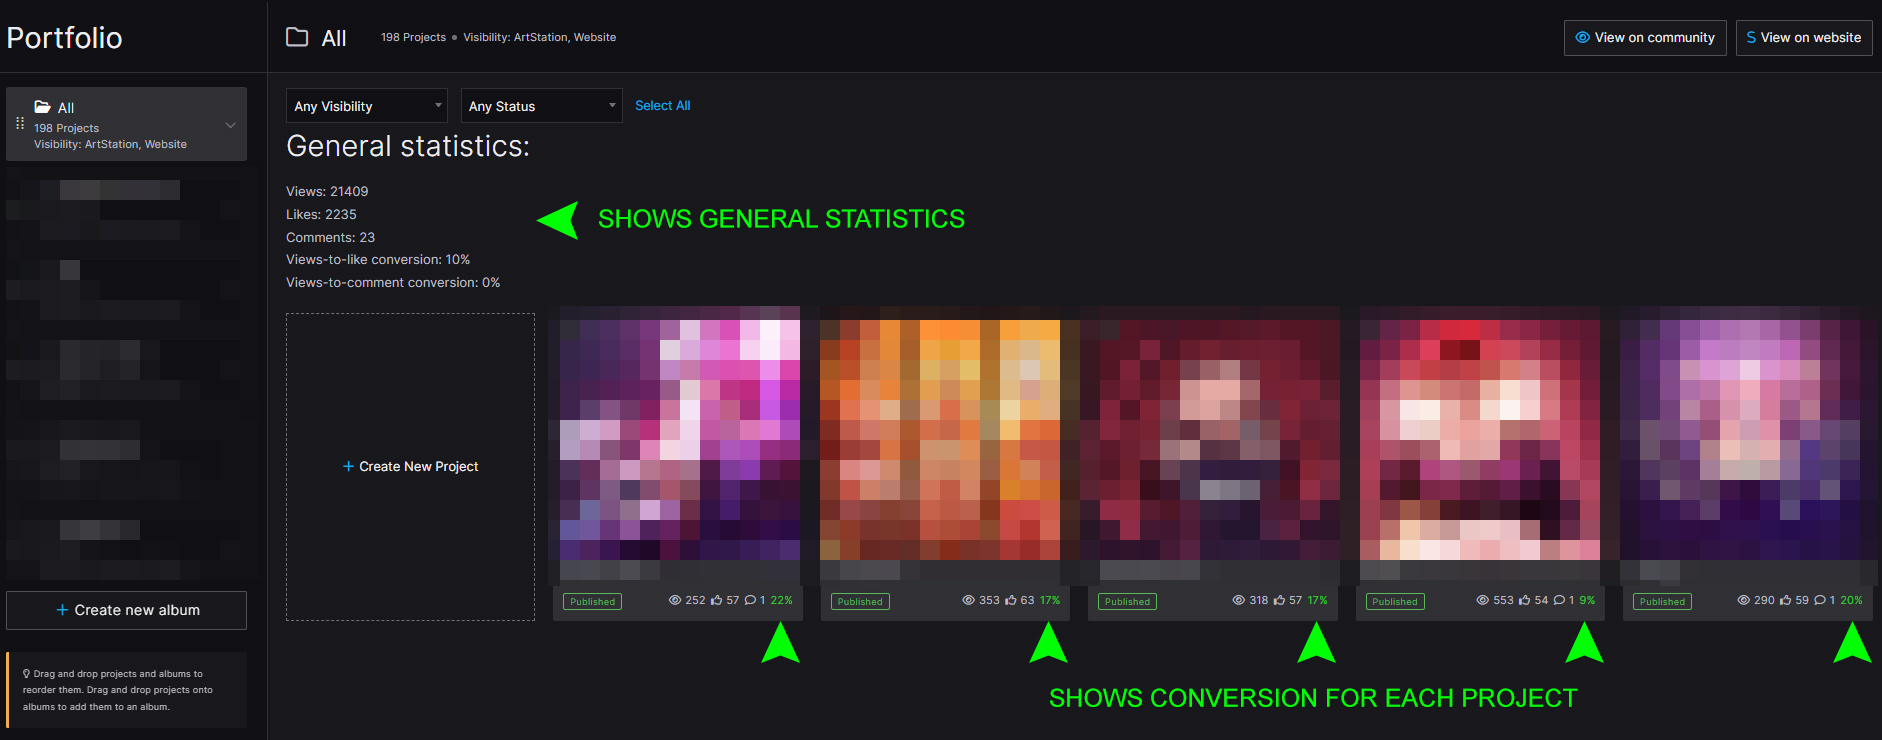
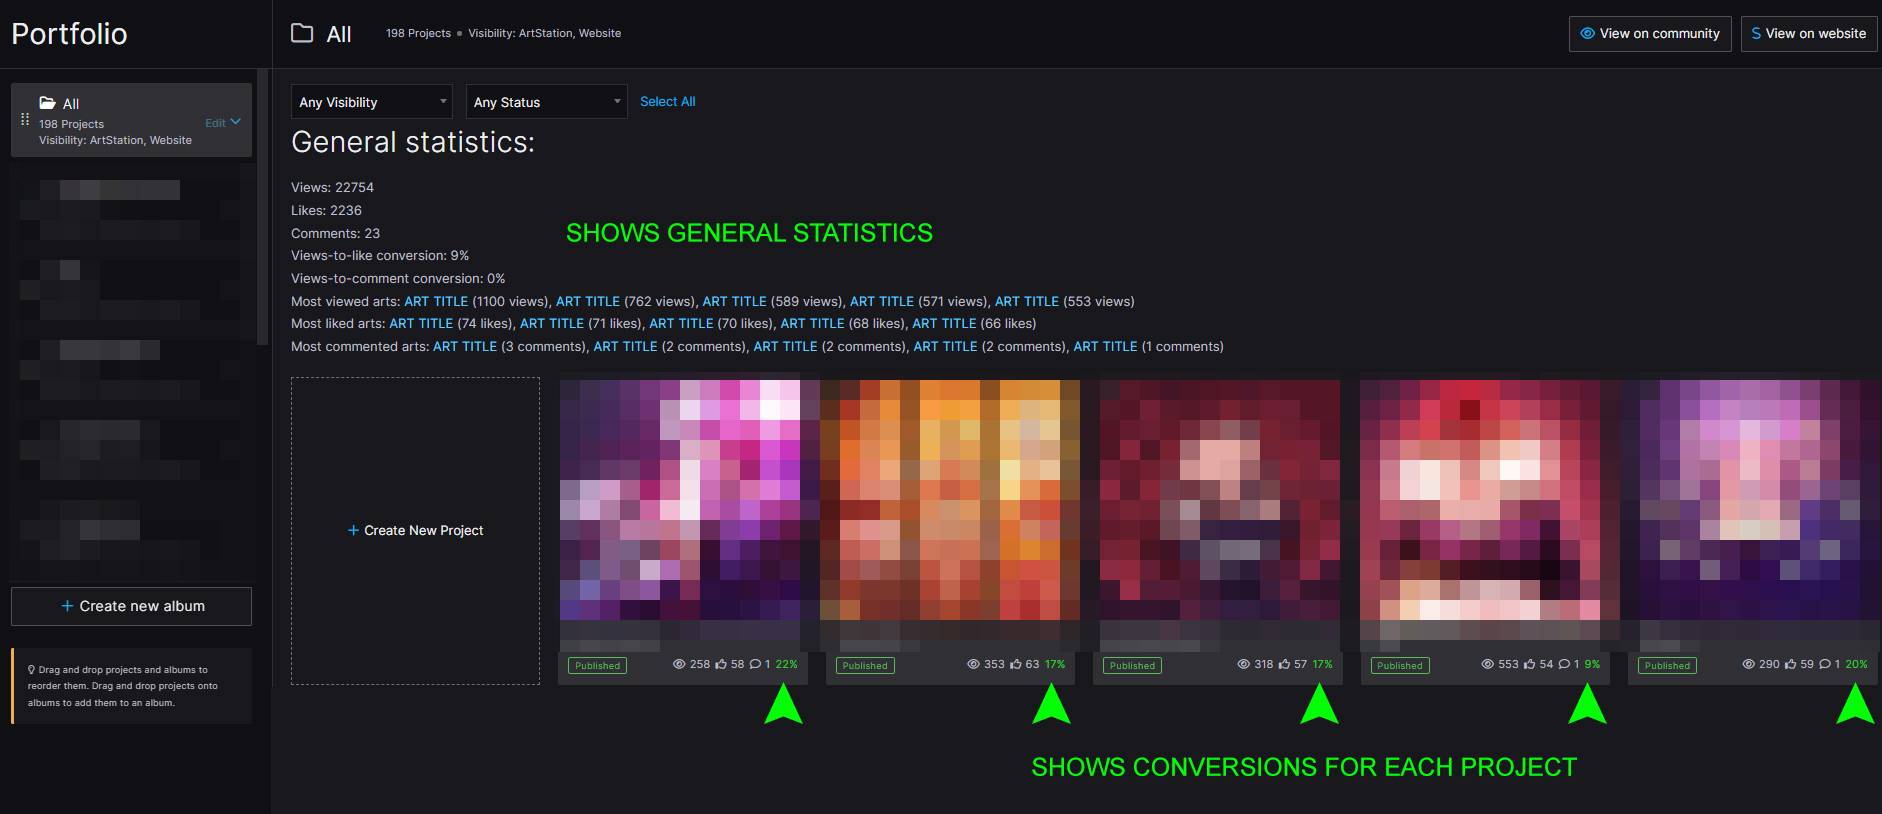
Add top rated arts section

diff --git a/userscript.js b/userscript.js
@@ -9,54 +9,102 @@
 // @grant        none
 // ==/UserScript==
 
-(function() {
-    'use strict';
-    function parseNumber(node) {
-        let text = node.split('</i>')[1]
-        const isMoreThanThousand = text.indexOf('K') > -1
-        let number = parseInt(text)
-        return isMoreThanThousand ? number * 1000 : number
-    }
+;(function () {
+  'use strict'
 
-    function renderStats(totalViews, totalLikes, totalComments) {
-        const portfolioContentNode = document.getElementsByClassName('portfolio-content')[0]
-        const projectListNode = document.getElementsByClassName('project-list')[0]
-        const statDiv = document.createElement("div")
-        const viewsToLikeConversion = Math.floor(totalLikes / totalViews * 100)
-        const viewsToCommentConversion = Math.floor(totalComments / totalViews * 100)
-        statDiv.innerHTML += `<h2>General statistics:</h2>`
-        statDiv.innerHTML += `Views: ${totalViews} <br> Likes: ${totalLikes} <br> Comments: ${totalComments} <br>`
-        statDiv.innerHTML += `Views-to-like conversion: ${viewsToLikeConversion}% <br> Views-to-comment conversion: ${viewsToCommentConversion}%`
-        portfolioContentNode.insertBefore(statDiv, projectListNode)
-    }
+  function parseNumber(node) {
+    let text = node.split('</i>')[1]
+    const isMoreThanThousand = text.indexOf('K') > -1
+    let number = parseFloat(text)
+    return isMoreThanThousand ? number * 1000 : number
+  }
 
-    function addConversions() {
-        const metas = document.getElementsByClassName('project-meta')
-        let totalViews = 0
-        let totalLikes = 0
-        let totalComments = 0
-        for (var i = 0; i < metas.length; i++) {
-            const meta = metas[i]
-            let views = parseNumber(meta.childNodes[0].innerHTML)
-            if(!meta.childNodes[1]) continue;
-            const likes = parseNumber(meta.childNodes[1].innerHTML)
-            totalViews += views
-            totalLikes += likes
-            if(meta.childNodes[2]) {
-                const comments = parseNumber(meta.childNodes[2].innerHTML)
-                totalComments += comments
-            }
-            const conversion = Math.floor(likes / views * 100)
-            const newChild = document.createElement("div")
-            newChild.classList.add("project-meta-item");
-            newChild.innerHTML = `${conversion}%`
-            newChild.style.color = 'limegreen'
-            meta.appendChild(newChild)
-        }
-        renderStats(totalViews, totalLikes, totalComments)
+  function extractArtData(art) {
+    const title = art.getElementsByClassName('project-title')[0].innerHTML
+    const link = art.getElementsByClassName('project-link')[0].getAttribute('href').split('/')[3]
+    const meta = art.getElementsByClassName('project-meta')[0]
+    const views = parseNumber(meta.childNodes[0].innerHTML)
+    const likes = meta.childNodes[1] ? parseNumber(meta.childNodes[1].innerHTML) : 0
+    const comments = meta.childNodes[2] ? parseNumber(meta.childNodes[2].innerHTML) : 0
+    const conversion = Math.floor((likes / views) * 100)
+    return {
+      title,
+      link,
+      views,
+      likes,
+      comments,
+      conversion,
+      meta,
     }
+  }
 
-    window.addEventListener("load", (event) => {
-        addConversions()
-    });
-})();
+  function renderStats(arts) {
+    const totalViews = arts.reduce((acc, art) => acc + art.views, 0)
+    const totalLikes = arts.reduce((acc, art) => acc + art.likes, 0)
+    const totalComments = arts.reduce((acc, art) => acc + art.comments, 0)
+
+    let mostViewed = [...arts.sort((a, b) => b.views - a.views).slice(0, 5)]
+    let mostLiked = [...arts.sort((a, b) => b.likes - a.likes).slice(0, 5)]
+    let mostCommented = [...arts.sort((a, b) => b.comments - a.comments).slice(0, 5)]
+
+    const portfolioContentNode = document.getElementsByClassName('portfolio-content')[0]
+    const projectListNode = document.getElementsByClassName('project-list')[0]
+    const statDiv = document.createElement('div')
+    const viewsToLikeConversion = Math.floor((totalLikes / totalViews) * 100)
+    const viewsToCommentConversion = Math.floor((totalComments / totalViews) * 100)
+    statDiv.innerHTML += `<h2>General statistics:</h2>`
+    statDiv.innerHTML += `Views: ${totalViews} <br> Likes: ${totalLikes} <br> Comments: ${totalComments} <br>`
+    statDiv.innerHTML += `Views-to-like conversion: ${viewsToLikeConversion}% <br> Views-to-comment conversion: ${viewsToCommentConversion}% <br>`
+
+    statDiv.innerHTML +=
+      `Most viewed arts: ` +
+      mostViewed
+        .map(
+          (art) =>
+            `<a href='https://www.artstation.com/artwork/${art.link}' target='_blank'>${art.title}</a> (${art.views} views)`
+        )
+        .join(', ') +
+      `<br>`
+    statDiv.innerHTML +=
+      `Most liked arts: ` +
+      mostLiked
+        .map(
+          (art) =>
+            `<a href='https://www.artstation.com/artwork/${art.link}' target='_blank'>${art.title}</a> (${art.likes} likes)`
+        )
+        .join(', ') +
+      `<br>`
+    statDiv.innerHTML +=
+      `Most commented arts: ` +
+      mostCommented
+        .map(
+          (art) =>
+            `<a href='https://www.artstation.com/artwork/${art.link}' target='_blank'>${art.title}</a> (${art.comments} comments)`
+        )
+        .join(', ') +
+      `<br>`
+
+    portfolioContentNode.insertBefore(statDiv, projectListNode)
+  }
+
+  function addConversions() {
+    const projectNodes = document.getElementsByClassName('project-inner')
+    const arts = []
+    for (var n = 0; n < projectNodes.length; n++) {
+      arts.push(extractArtData(projectNodes[n]))
+    }
+    for (var i = 0; i < arts.length; i++) {
+      const art = arts[i]
+      const newChild = document.createElement('div')
+      newChild.classList.add('project-meta-item')
+      newChild.innerHTML = `${art.conversion}%`
+      newChild.style.color = 'limegreen'
+      art.meta.appendChild(newChild)
+    }
+    renderStats(arts)
+  }
+
+  window.addEventListener('load', (event) => {
+    addConversions()
+  })
+})()
